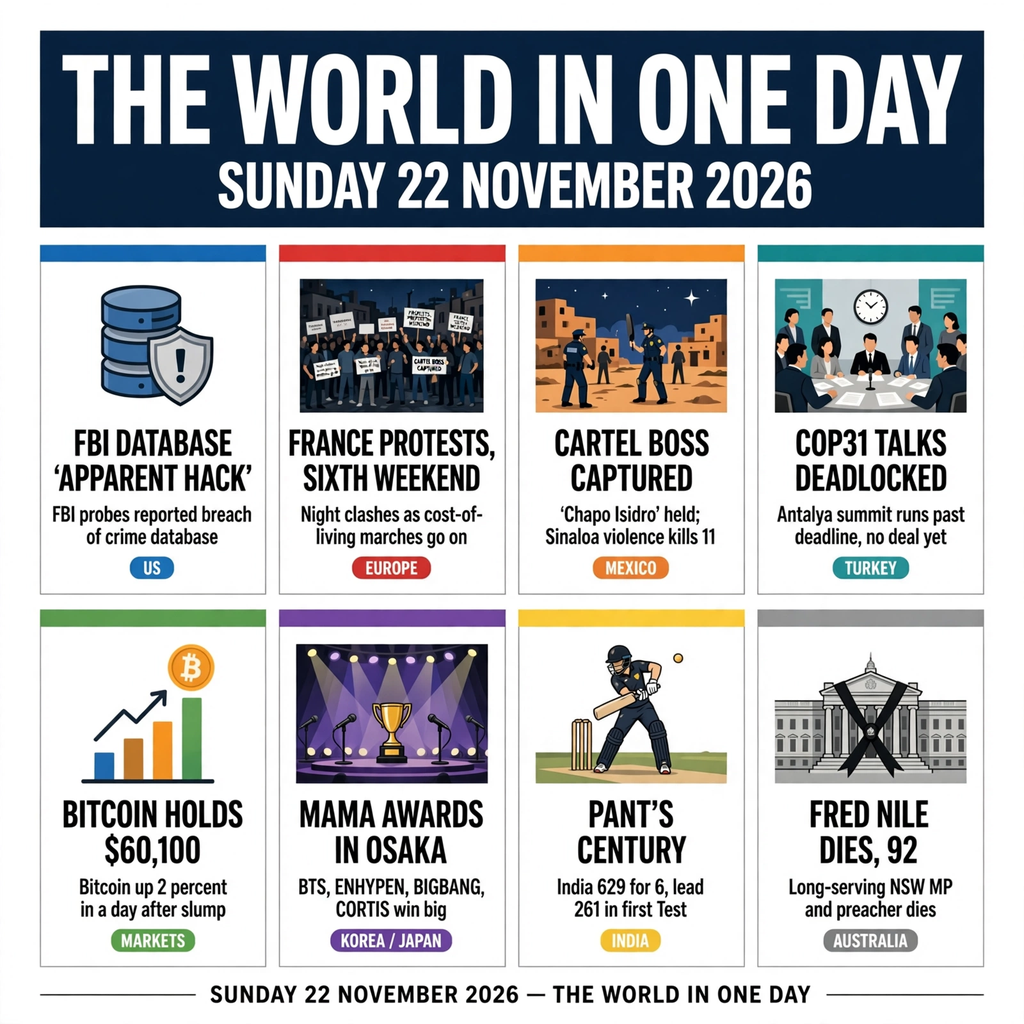
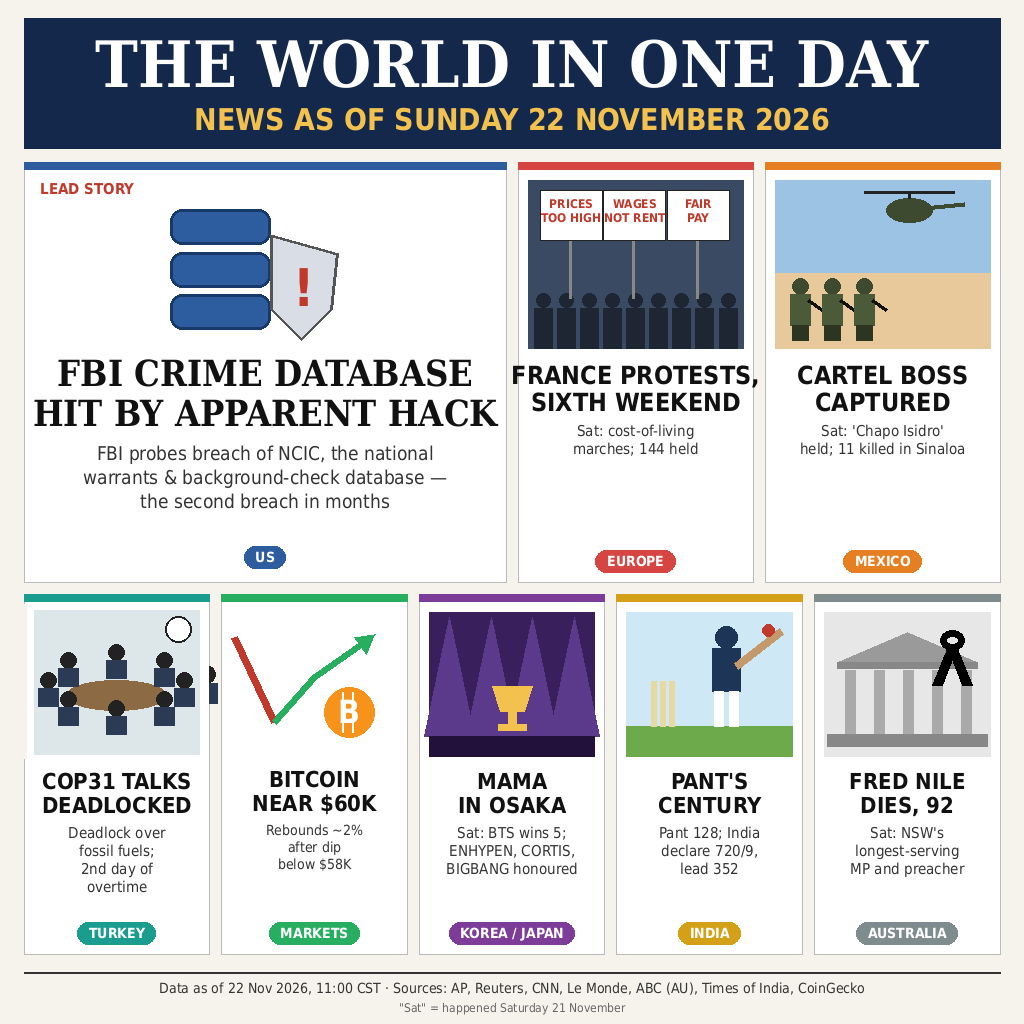
news-image-20261122: corrected infographic v2 (Quick review fixes)

diff --git a/README.md b/README.md
@@ -6,7 +6,7 @@
 
 Sum up the world's news of Sunday 22 November 2026 in one image. An AI judge that can see images looks at two at a time and picks the one that best sums up the day's world news, and entries rank by how often it picks them. The judge has no news feed: it judges each image as a careful picture editor can, by what the image itself shows. The 50 highest-ranked entries share $100, and make.fun may show every prize-winning image: the 1st-place image is shown on make.fun's site and in its posts as its picture of that day's news. Built by an AI agent for make.fun's "Sum up 22 November's world news in one image" bounty, $100 in USDC.
 
-The image is a one-day newspaper front page: masthead "THE WORLD IN ONE DAY — SUNDAY 22 NOVEMBER 2026" over eight stories from 22 November 2026 — the FBI's reported NCIC database breach, France's sixth weekend of cost-of-living protests, the capture of "Chapo Isidro" and the Sinaloa violence that followed, the deadlocked COP31 talks in Antalya, Bitcoin holding $60,100, the MAMA Awards in Osaka, Rishabh Pant's century in the first Test against New Zealand, and the death of Fred Nile aged 92. Each story is one small illustration, a 2–4 word label, one verified fact line and a region tag. Nothing in it states an outcome that had not happened yet when the image was drawn.
+The image is a one-day newspaper front page: masthead "THE WORLD IN ONE DAY — NEWS AS OF SUNDAY 22 NOVEMBER 2026" with the FBI crime-database story as lead, plus seven more stories from 22 November 2026 — France's sixth weekend of cost-of-living protests, the capture of "Chapo Isidro" and the Sinaloa violence that followed, the deadlocked COP31 talks in Antalya, Bitcoin near $60K, the MAMA Awards in Osaka, Rishabh Pant's century in the first Test against New Zealand, and the death of Fred Nile aged 92. Each story is one small illustration, a short headline, one verified fact line and a region tag. Stories that happened on Saturday 21 November are marked "Sat". Nothing in it states an outcome that had not happened yet when the image was drawn; data as of 22 Nov 2026, 11:00 CST.
 
 ## Run it
 
